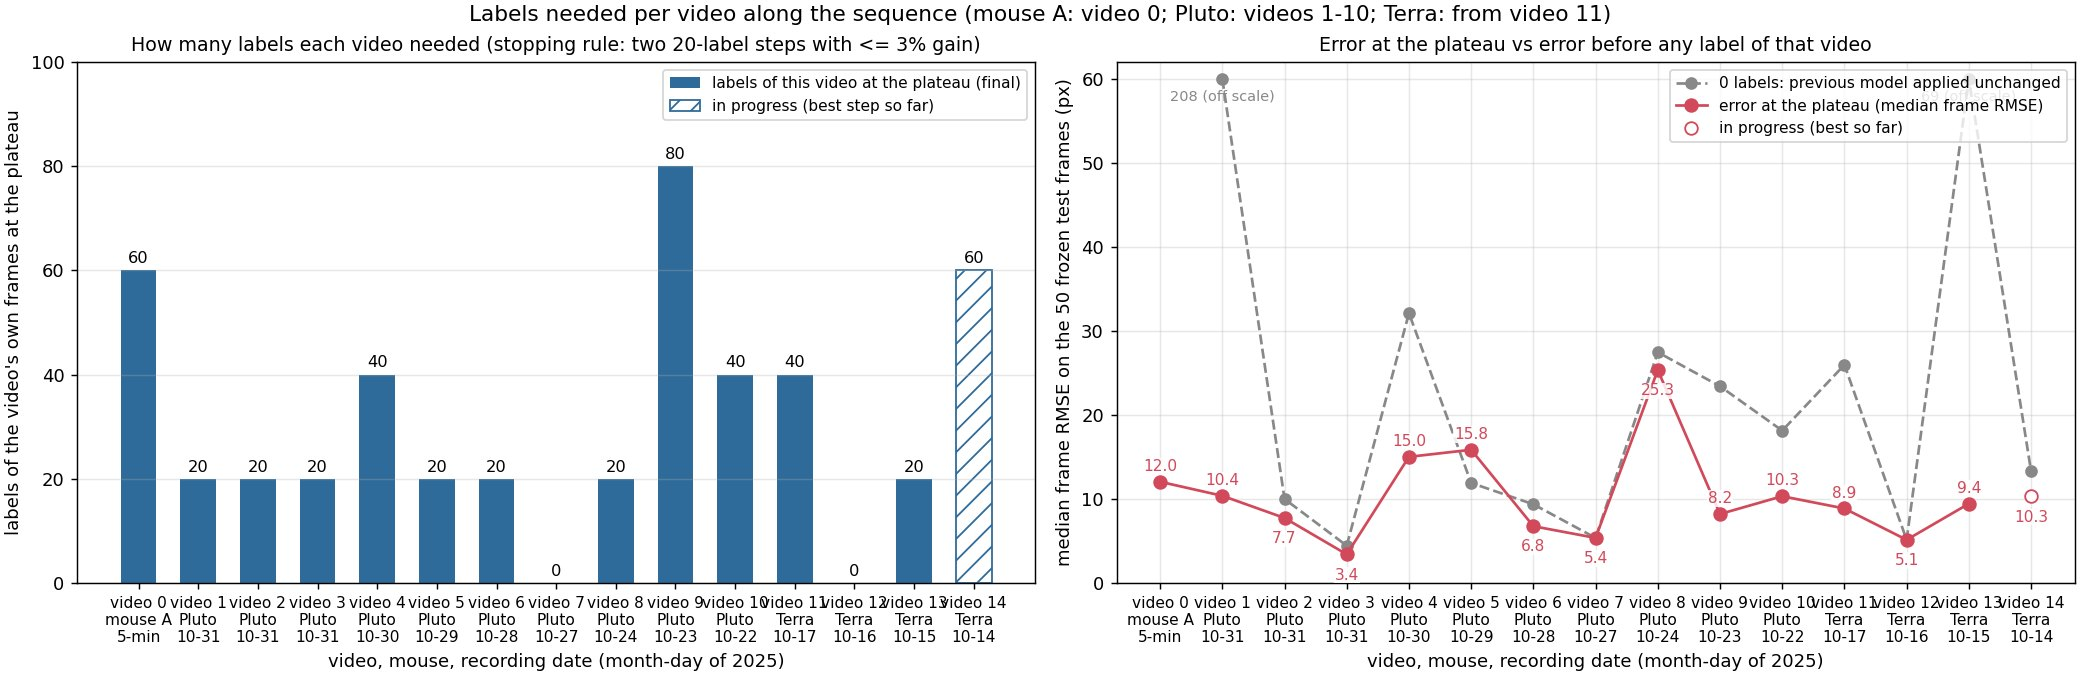
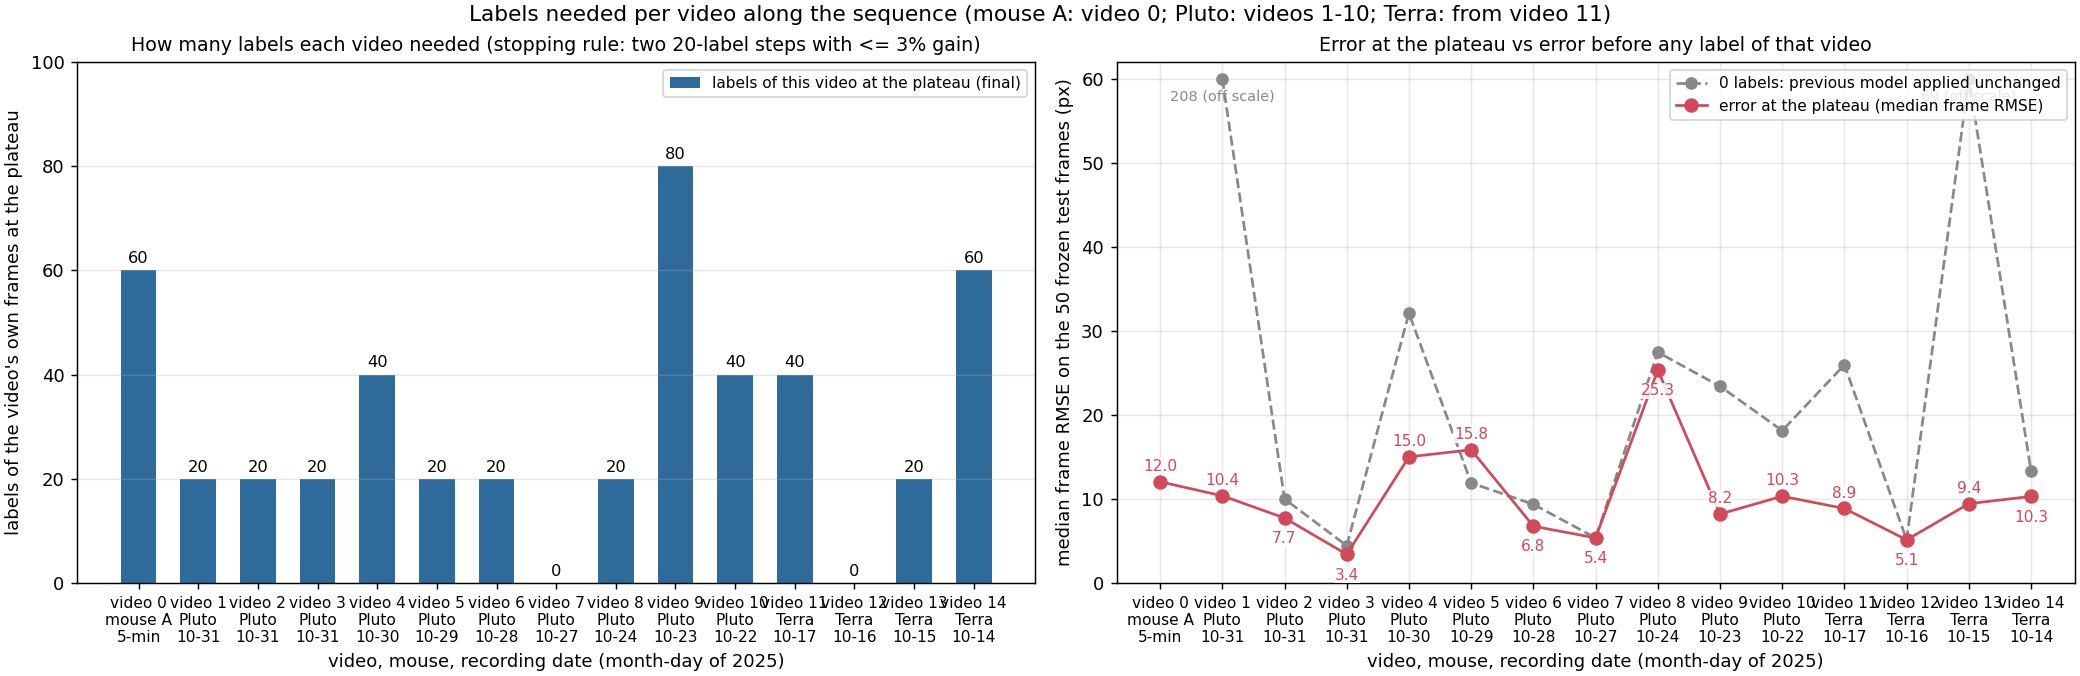
Plateau table: video 15 row deferred until its step 1 scores (plot and page builders need a scored step); figures and page rebuilt
Claude-Session: https://claude.ai/code/session_01HbY3eFuxfPQiRo7QFugpjw

diff --git a/report/index.html b/report/index.html
@@ -78,7 +78,7 @@ math[display="block"]{margin:10px 0 6px;text-align:left;overflow-x:auto;max-widt
 
 <header>
   <h1><span lang="zh">小鼠眼睛关键点追踪：做了什么，结果是什么</span><span lang="en">Mouse eye keypoint tracking: what was done and what came out</span></h1>
-  <p class="muted small">Zhiheng Li (University of Minnesota), Kaiwen Sheng (Stanford) · <span lang="zh">页面生成时间</span><span lang="en">page built</span> 2026-10-07 15:40 · <a href="https://github.com/ZhihengLi0/mouse-behavior-tracking">GitHub: ZhihengLi0/mouse-behavior-tracking</a></p>
+  <p class="muted small">Zhiheng Li (University of Minnesota), Kaiwen Sheng (Stanford) · <span lang="zh">页面生成时间</span><span lang="en">page built</span> 2026-10-07 18:22 · <a href="https://github.com/ZhihengLi0/mouse-behavior-tracking">GitHub: ZhihengLi0/mouse-behavior-tracking</a></p>
 
   <div class="text" lang="zh">
     <p><b>任务：</b>用 DeepLabCut 在小鼠眼睛视频的每一帧上找 8 个点：瞳孔上、下、左、右，上眼睑、下眼睑，鼻侧眼角、颞侧眼角。由这 8 个点得到瞳孔大小、眼睛睁开程度和眨眼，之后与脑记录对齐。</p>
@@ -105,7 +105,7 @@ math[display="block"]{margin:10px 0 6px;text-align:left;overflow-x:auto;max-widt
       <li><b>瞳孔面积怎么算？</b>按 2026 年 9 月 20 日明确的定义，瞳孔四个点都是椭圆端点，在 14 个视频的 694 帧测试帧上，四点法的面积误差中位数是 5.6%，三点法是 7.8%；视频 4 和 8 上面积仍然不准（第 9 步）。</li>
       <li><b>眨眼怎么判断？</b>第一轮先定了定义：非睁眼 = 眼睛闭上或眼睑盖住部分瞳孔。按帧的规则"睁开高度 ÷ 眼宽 &lt; 0.347"（眼睑点失效时看瞳孔置信度）在 239 帧单帧盲评上准确率 91%。主要发现：7 个视频（3、4、8–12）有 26–70% 的时间眼睛不是完全睁开的，半掩是那些录像的常态；眨眼是其中的子集，细分放下一轮（第 10 步）。</li>
     </ol>
-    <p><b>进度：</b>已完成 14 个视频（视频 0–13）；视频 14 进行中，按 0 / 20 / 40 / … 帧的误差为 13.33 / 10.83 / 12.41 / 10.30 / 10.45 / 10.24 px。</p>
+    <p><b>进度：</b>已完成 15 个视频（视频 0–14）。</p>
   </div>
   <div class="text" lang="en">
     <p><b>Task:</b> DeepLabCut finds 8 points on every frame of a mouse-eye video: pupil top, bottom, left, right; upper and lower eyelid; nasal and temporal eye corner. From these we get pupil size, eye opening and blinks, to be aligned with brain recordings later.</p>
@@ -132,7 +132,7 @@ math[display="block"]{margin:10px 0 6px;text-align:left;overflow-x:auto;max-widt
       <li><b>How to compute the pupil area?</b> Under the definitions made explicit on 2026-09-20 all four pupil points are ellipse endpoints, and on the 694 test frames of 14 videos the four-point area has a median error of 5.6% against 7.8% for the three-point rule; on videos 4 and 8 the area is still not accurate (step 9).</li>
       <li><b>How to detect blinks?</b> The first round fixed a definition first: not open = the eye is closed or the lid covers part of the pupil. The per-frame rule "eye opening ÷ eye width &lt; 0.347" (pupil confidence when the eyelid points fail) is 91% accurate on 239 blind single frames. Main finding: in 7 videos (3, 4, 8–12) the eye is not fully open 26–70% of the time — a half-covered eye is the resting state of those recordings; blinks are a subset, and the finer classes come next (step 10).</li>
     </ol>
-    <p><b>Status:</b> 14 videos finished (videos 0–13); video 14 in progress, error at 0 / 20 / 40 / … labels: 13.33 / 10.83 / 12.41 / 10.30 / 10.45 / 10.24 px.</p>
+    <p><b>Status:</b> 15 videos finished (videos 0–14).</p>
   </div>
 
   <div class="text" lang="zh">
@@ -586,7 +586,7 @@ math[display="block"]{margin:10px 0 6px;text-align:left;overflow-x:auto;max-widt
       <div class="item"><img src="assets/scale_video11.jpg" alt="Video 11: error vs own labels" loading="lazy"><div class="cap"><span lang="zh">视频 11（Terra，2025-10-17）：平台点 40 帧，8.86 px</span><span lang="en">Video 11 (Terra, 2025-10-17): plateau at 40 labels, 8.86 px</span></div></div>
       <div class="item"><img src="assets/scale_video12.jpg" alt="Video 12: error vs own labels" loading="lazy"><div class="cap"><span lang="zh">视频 12（Terra，2025-10-16）：平台点 0 帧，5.13 px</span><span lang="en">Video 12 (Terra, 2025-10-16): plateau at 0 labels, 5.13 px</span></div></div>
       <div class="item"><img src="assets/scale_video13.jpg" alt="Video 13: error vs own labels" loading="lazy"><div class="cap"><span lang="zh">视频 13（Terra，2025-10-15）：平台点 20 帧，9.43 px</span><span lang="en">Video 13 (Terra, 2025-10-15): plateau at 20 labels, 9.43 px</span></div></div>
-      <div class="item"><img src="assets/scale_video14.jpg" alt="Video 14: error vs own labels" loading="lazy"><div class="cap"><span lang="zh">视频 14（Terra，2025-10-14）：进行中</span><span lang="en">Video 14 (Terra, 2025-10-14): in progress</span></div></div>
+      <div class="item"><img src="assets/scale_video14.jpg" alt="Video 14: error vs own labels" loading="lazy"><div class="cap"><span lang="zh">视频 14（Terra，2025-10-14）：平台点 60 帧，10.30 px</span><span lang="en">Video 14 (Terra, 2025-10-14): plateau at 60 labels, 10.30 px</span></div></div>
     </div></div>
     <figcaption lang="zh"><span class="tag">图 5-3 怎么看：</span>每个视频自己的曲线排成一行，从视频 0 到最新的视频，可以左右拖动；每张图下面注明视频、老鼠、日期和平台点。三幅小图的读法以视频 9 为例。左图：横轴是这个视频自己的标注帧数，纵轴是误差；20 帧 10.4 px，40 帧 8.6 px，80 帧 8.2 px，之后两步（9.4、8.6 px）都没有再改善，规则在 120 帧触发，平台点记为 80 帧。中图：8 个点各自的误差，瞳孔下点（蓝）最难。右图：不需要标注的指标，紫线是整段视频里被跳动规则标出的帧的比例，随标注增加从 18% 降到 9%。</figcaption>
     <figcaption lang="en"><span class="tag">Figure 5-3, how to read:</span>The curves of every video in one row, from video 0 to the newest; scroll sideways. Under each figure: video, mouse, date and plateau point. How to read the three panels, with video 9 as the example. Left: x = this video's own labels, y = error; 10.4 px at 20 labels, 8.6 px at 40, 8.2 px at 80, then two steps without a gain (9.4, 8.6 px), so the rule fired at 120 and the plateau point is 80. Middle: error of each of the 8 points; pupil bottom (blue) is the hardest. Right: label-free signals; the purple line is the share of video frames flagged by the jump rule, falling from 18% to 9% as labels are added.</figcaption>
@@ -624,7 +624,7 @@ math[display="block"]{margin:10px 0 6px;text-align:left;overflow-x:auto;max-widt
 <tr><td>11</td><td>Terra<br>2025-10-17</td><td>540</td><td>25.96 / 9.24 / 8.86 / 8.77 / 8.65</td><td><span lang="zh"><b>40 帧，8.86 px</b></span><span lang="en"><b>40 labels, 8.86 px</b></span></td><td>80</td><td>40</td></tr>
 <tr><td>12</td><td>Terra<br>2025-10-16</td><td>580</td><td>5.13 / 5.77 / 5.84</td><td><span lang="zh"><b>0 帧，5.13 px</b></span><span lang="en"><b>0 labels, 5.13 px</b></span></td><td>40</td><td>0</td></tr>
 <tr><td>13</td><td>Terra<br>2025-10-15</td><td>580</td><td>69.13 / 9.43 / 9.44 / 9.67</td><td><span lang="zh"><b>20 帧，9.43 px</b></span><span lang="en"><b>20 labels, 9.43 px</b></span></td><td>60</td><td>20</td></tr>
-<tr><td>14</td><td>Terra<br>2025-10-14</td><td>600</td><td>13.33 / 10.83 / 12.41 / 10.30 / 10.45 / 10.24</td><td><span lang="zh">进行中（目前最好：60 帧，10.30 px）</span><span lang="en">in progress (best so far: 60 labels, 10.30 px)</span></td><td>100</td><td>–</td></tr>
+<tr><td>14</td><td>Terra<br>2025-10-14</td><td>600</td><td>13.33 / 10.83 / 12.41 / 10.30 / 10.45 / 10.24</td><td><span lang="zh"><b>60 帧，10.30 px</b></span><span lang="en"><b>60 labels, 10.30 px</b></span></td><td>100</td><td>60</td></tr>
       </tbody>
     </table>
   </div>

diff --git a/report/index_en.html b/report/index_en.html
@@ -75,7 +75,7 @@ math[display="block"]{margin:10px 0 6px;text-align:left;overflow-x:auto;max-widt
 
 <header>
   <h1><span lang="en">Mouse eye keypoint tracking: what was done and what came out</span></h1>
-  <p class="muted small">Zhiheng Li (University of Minnesota), Kaiwen Sheng (Stanford) · <span lang="en">page built</span> 2026-10-07 15:40 · <a href="https://github.com/ZhihengLi0/mouse-behavior-tracking">GitHub: ZhihengLi0/mouse-behavior-tracking</a></p>
+  <p class="muted small">Zhiheng Li (University of Minnesota), Kaiwen Sheng (Stanford) · <span lang="en">page built</span> 2026-10-07 18:22 · <a href="https://github.com/ZhihengLi0/mouse-behavior-tracking">GitHub: ZhihengLi0/mouse-behavior-tracking</a></p>
 
   
   <div class="text" lang="en">
@@ -103,7 +103,7 @@ math[display="block"]{margin:10px 0 6px;text-align:left;overflow-x:auto;max-widt
       <li><b>How to compute the pupil area?</b> Under the definitions made explicit on 2026-09-20 all four pupil points are ellipse endpoints, and on the 694 test frames of 14 videos the four-point area has a median error of 5.6% against 7.8% for the three-point rule; on videos 4 and 8 the area is still not accurate (step 9).</li>
       <li><b>How to detect blinks?</b> The first round fixed a definition first: not open = the eye is closed or the lid covers part of the pupil. The per-frame rule "eye opening ÷ eye width &lt; 0.347" (pupil confidence when the eyelid points fail) is 91% accurate on 239 blind single frames. Main finding: in 7 videos (3, 4, 8–12) the eye is not fully open 26–70% of the time — a half-covered eye is the resting state of those recordings; blinks are a subset, and the finer classes come next (step 10).</li>
     </ol>
-    <p><b>Status:</b> 14 videos finished (videos 0–13); video 14 in progress, error at 0 / 20 / 40 / … labels: 13.33 / 10.83 / 12.41 / 10.30 / 10.45 / 10.24 px.</p>
+    <p><b>Status:</b> 15 videos finished (videos 0–14).</p>
   </div>
 
   
@@ -464,7 +464,7 @@ math[display="block"]{margin:10px 0 6px;text-align:left;overflow-x:auto;max-widt
       <div class="item"><img src="assets/scale_video11.jpg" alt="Video 11: error vs own labels" loading="lazy"><div class="cap"><span lang="en">Video 11 (Terra, 2025-10-17): plateau at 40 labels, 8.86 px</span></div></div>
       <div class="item"><img src="assets/scale_video12.jpg" alt="Video 12: error vs own labels" loading="lazy"><div class="cap"><span lang="en">Video 12 (Terra, 2025-10-16): plateau at 0 labels, 5.13 px</span></div></div>
       <div class="item"><img src="assets/scale_video13.jpg" alt="Video 13: error vs own labels" loading="lazy"><div class="cap"><span lang="en">Video 13 (Terra, 2025-10-15): plateau at 20 labels, 9.43 px</span></div></div>
-      <div class="item"><img src="assets/scale_video14.jpg" alt="Video 14: error vs own labels" loading="lazy"><div class="cap"><span lang="en">Video 14 (Terra, 2025-10-14): in progress</span></div></div>
+      <div class="item"><img src="assets/scale_video14.jpg" alt="Video 14: error vs own labels" loading="lazy"><div class="cap"><span lang="en">Video 14 (Terra, 2025-10-14): plateau at 60 labels, 10.30 px</span></div></div>
     </div></div>
     
     <figcaption lang="en"><span class="tag">Figure 5-3, how to read:</span>The curves of every video in one row, from video 0 to the newest; scroll sideways. Under each figure: video, mouse, date and plateau point. How to read the three panels, with video 9 as the example. Left: x = this video's own labels, y = error; 10.4 px at 20 labels, 8.6 px at 40, 8.2 px at 80, then two steps without a gain (9.4, 8.6 px), so the rule fired at 120 and the plateau point is 80. Middle: error of each of the 8 points; pupil bottom (blue) is the hardest. Right: label-free signals; the purple line is the share of video frames flagged by the jump rule, falling from 18% to 9% as labels are added.</figcaption>
@@ -502,7 +502,7 @@ math[display="block"]{margin:10px 0 6px;text-align:left;overflow-x:auto;max-widt
 <tr><td>11</td><td>Terra<br>2025-10-17</td><td>540</td><td>25.96 / 9.24 / 8.86 / 8.77 / 8.65</td><td><span lang="en"><b>40 labels, 8.86 px</b></span></td><td>80</td><td>40</td></tr>
 <tr><td>12</td><td>Terra<br>2025-10-16</td><td>580</td><td>5.13 / 5.77 / 5.84</td><td><span lang="en"><b>0 labels, 5.13 px</b></span></td><td>40</td><td>0</td></tr>
 <tr><td>13</td><td>Terra<br>2025-10-15</td><td>580</td><td>69.13 / 9.43 / 9.44 / 9.67</td><td><span lang="en"><b>20 labels, 9.43 px</b></span></td><td>60</td><td>20</td></tr>
-<tr><td>14</td><td>Terra<br>2025-10-14</td><td>600</td><td>13.33 / 10.83 / 12.41 / 10.30 / 10.45 / 10.24</td><td><span lang="en">in progress (best so far: 60 labels, 10.30 px)</span></td><td>100</td><td>–</td></tr>
+<tr><td>14</td><td>Terra<br>2025-10-14</td><td>600</td><td>13.33 / 10.83 / 12.41 / 10.30 / 10.45 / 10.24</td><td><span lang="en"><b>60 labels, 10.30 px</b></span></td><td>100</td><td>60</td></tr>
       </tbody>
     </table>
   </div>
